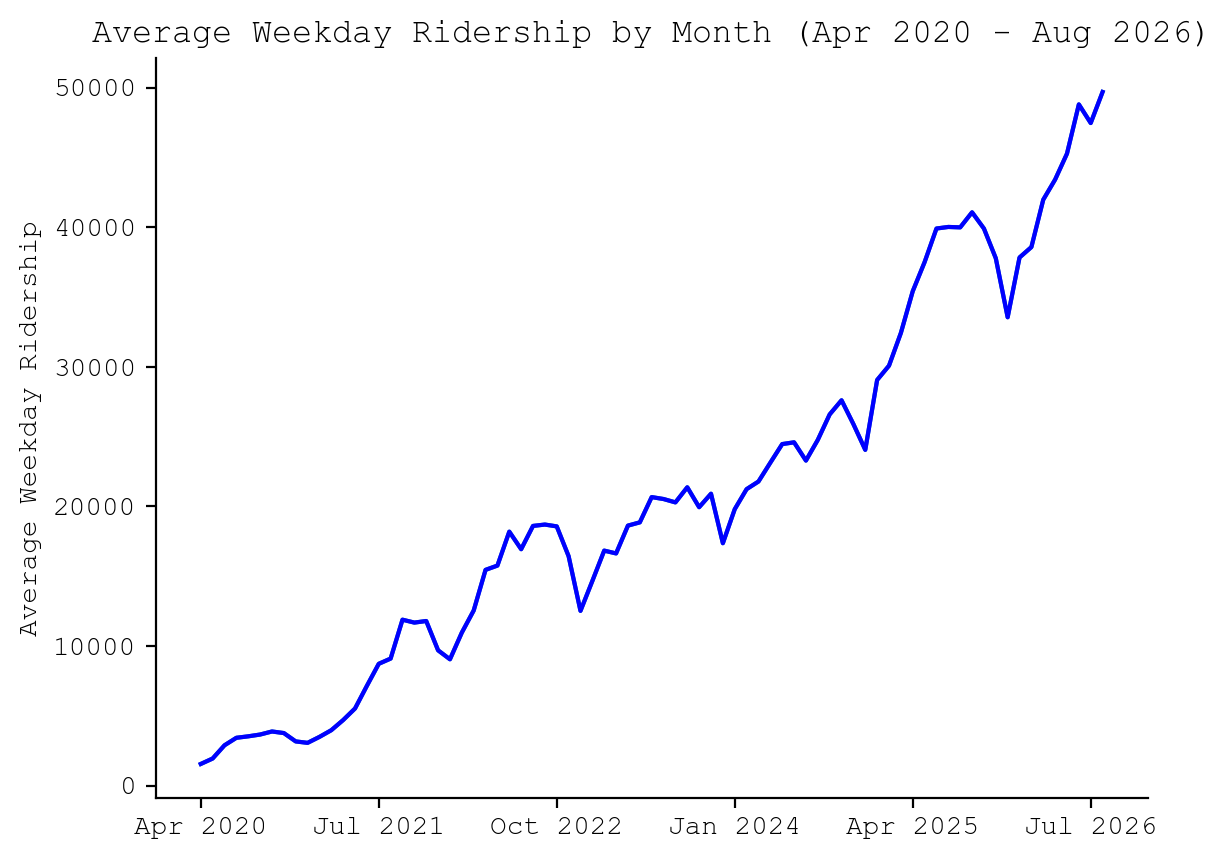
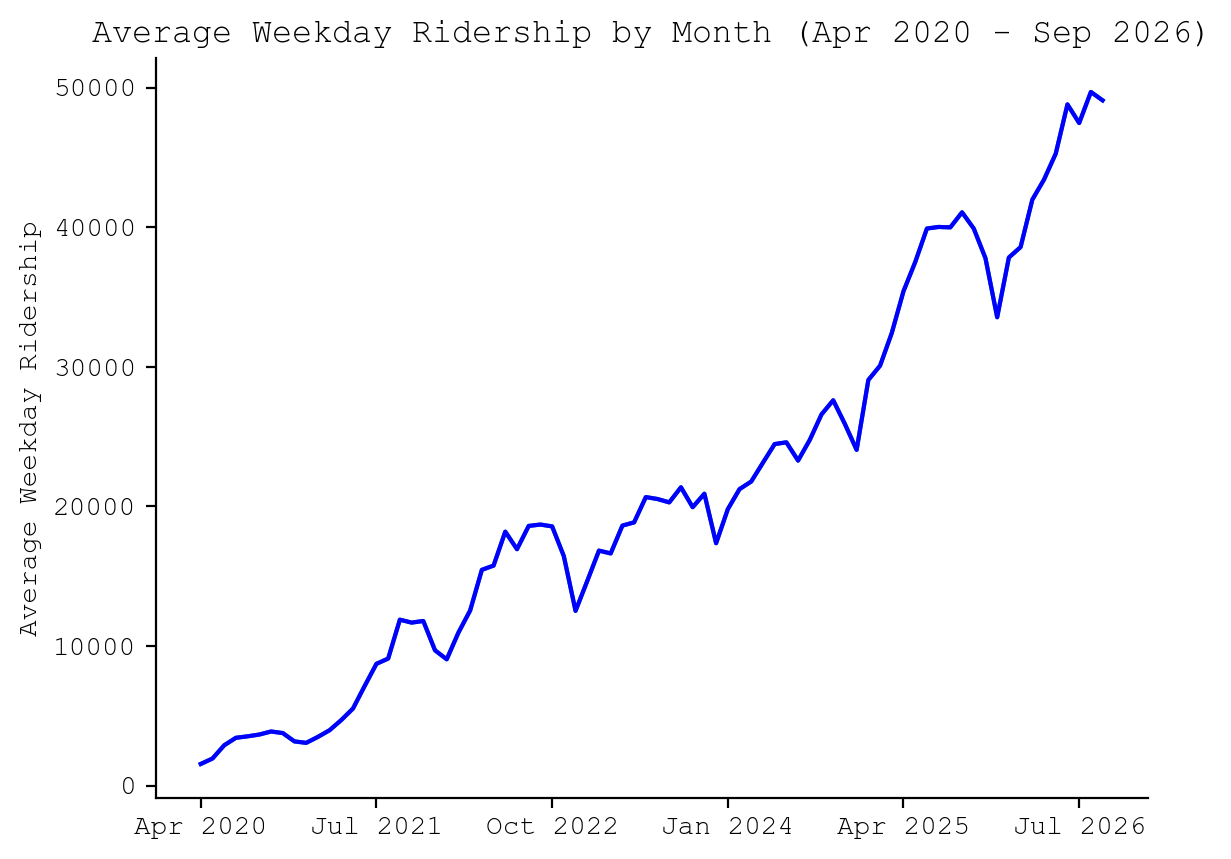
add sep 2026

diff --git a/site/index.html b/site/index.html
@@ -9,15 +9,15 @@
 </head>
 <body>
     <h1>Caltrain Ridership</h1>
-    <p><em>Last updated: 2026-09-10</em></p>    
+    <p><em>Last updated: 2026-10-15</em></p>    
     <div class="news">
         <p>
             It looks like you're on desktop, so you can use Caltrain's new ridership web page which has more detailed ridership data from 2023 onwards: <a href="https://www.caltrain.com/about-caltrain/statistics-reports/ridership/fare-media-based">https://www.caltrain.com/about-caltrain/statistics-reports/ridership/fare-media-based</a>.
         </p>
     </div>
     <p>
-        This site contains graphs and a table of Caltrain's average weekday ridership from Jul 2017 to Aug 2026 sourced from <a href="https://www.caltrain.com/about-caltrain/statistics-reports/ridership/fare-media-based">Fare Media Sales-Based Ridership Estimates</a> and JPB Citizens Advisory Committee documents.
-        Average weekday ridership is reported with a 1-month lag, so the most recent data is from Aug 2026.
+        This site contains graphs and a table of Caltrain's average weekday ridership from Jul 2017 to Sep 2026 sourced from <a href="https://www.caltrain.com/about-caltrain/statistics-reports/ridership/fare-media-based">Fare Media Sales-Based Ridership Estimates</a> and JPB Citizens Advisory Committee documents.
+        Average weekday ridership is reported with a 1-month lag, so the most recent data is from Sep 2026.
     </p>
     <p>
         You can find a <a href="https://github.com/iechevarria/caltrain-ridership/blob/main/ridership.csv">CSV</a> of Caltrain's average weekday ridership and the script to generate this site on <a href="https://github.com/iechevarria/caltrain-ridership">GitHub</a>.
@@ -31,6 +31,10 @@
     <tr>
         <td>Month</td>
         <td>Average weekday ridership</td>
+    </tr>
+    <tr>
+        <td>Sep 2026</td>
+        <td>49084</td>
     </tr>
     <tr>
         <td>Aug 2026</td>
